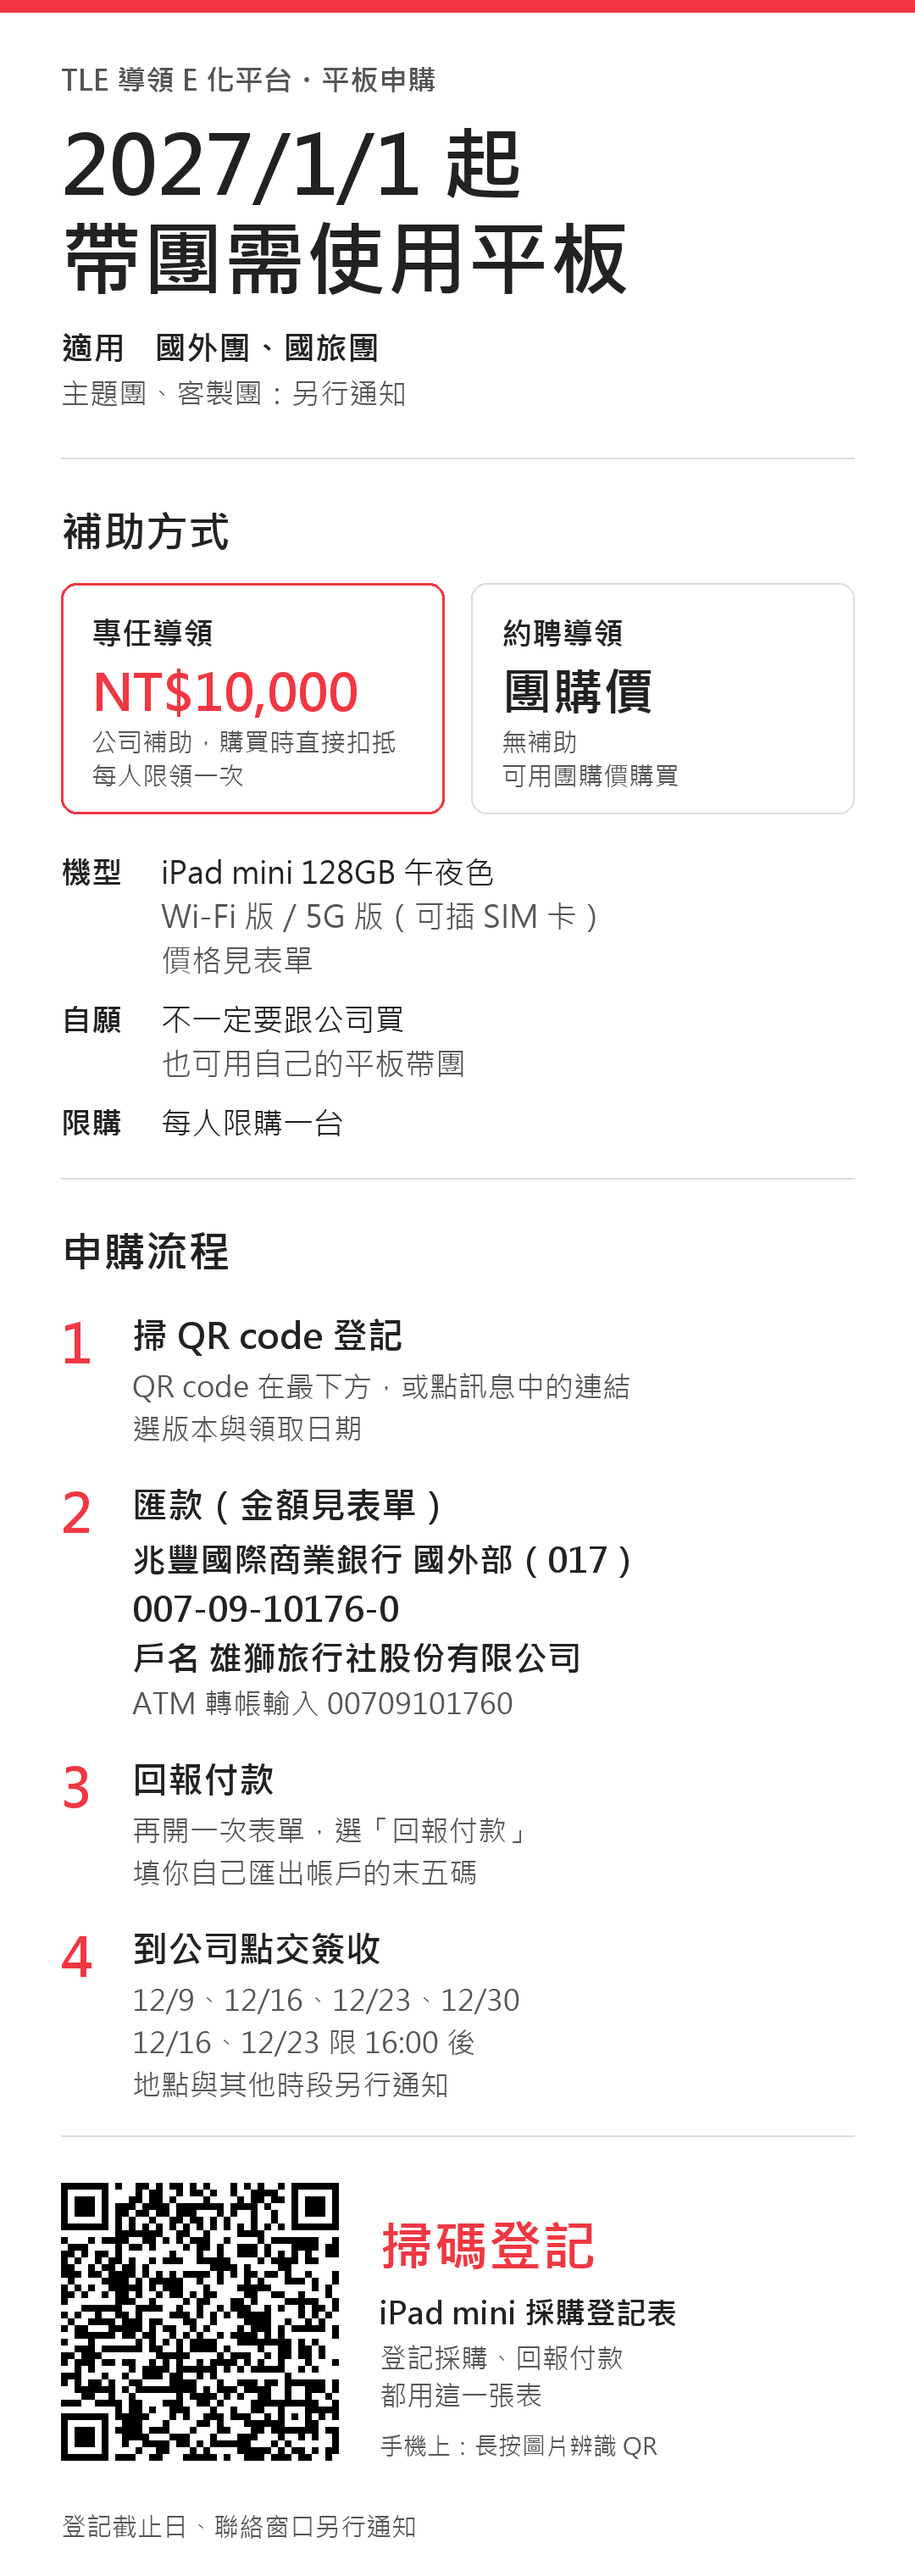
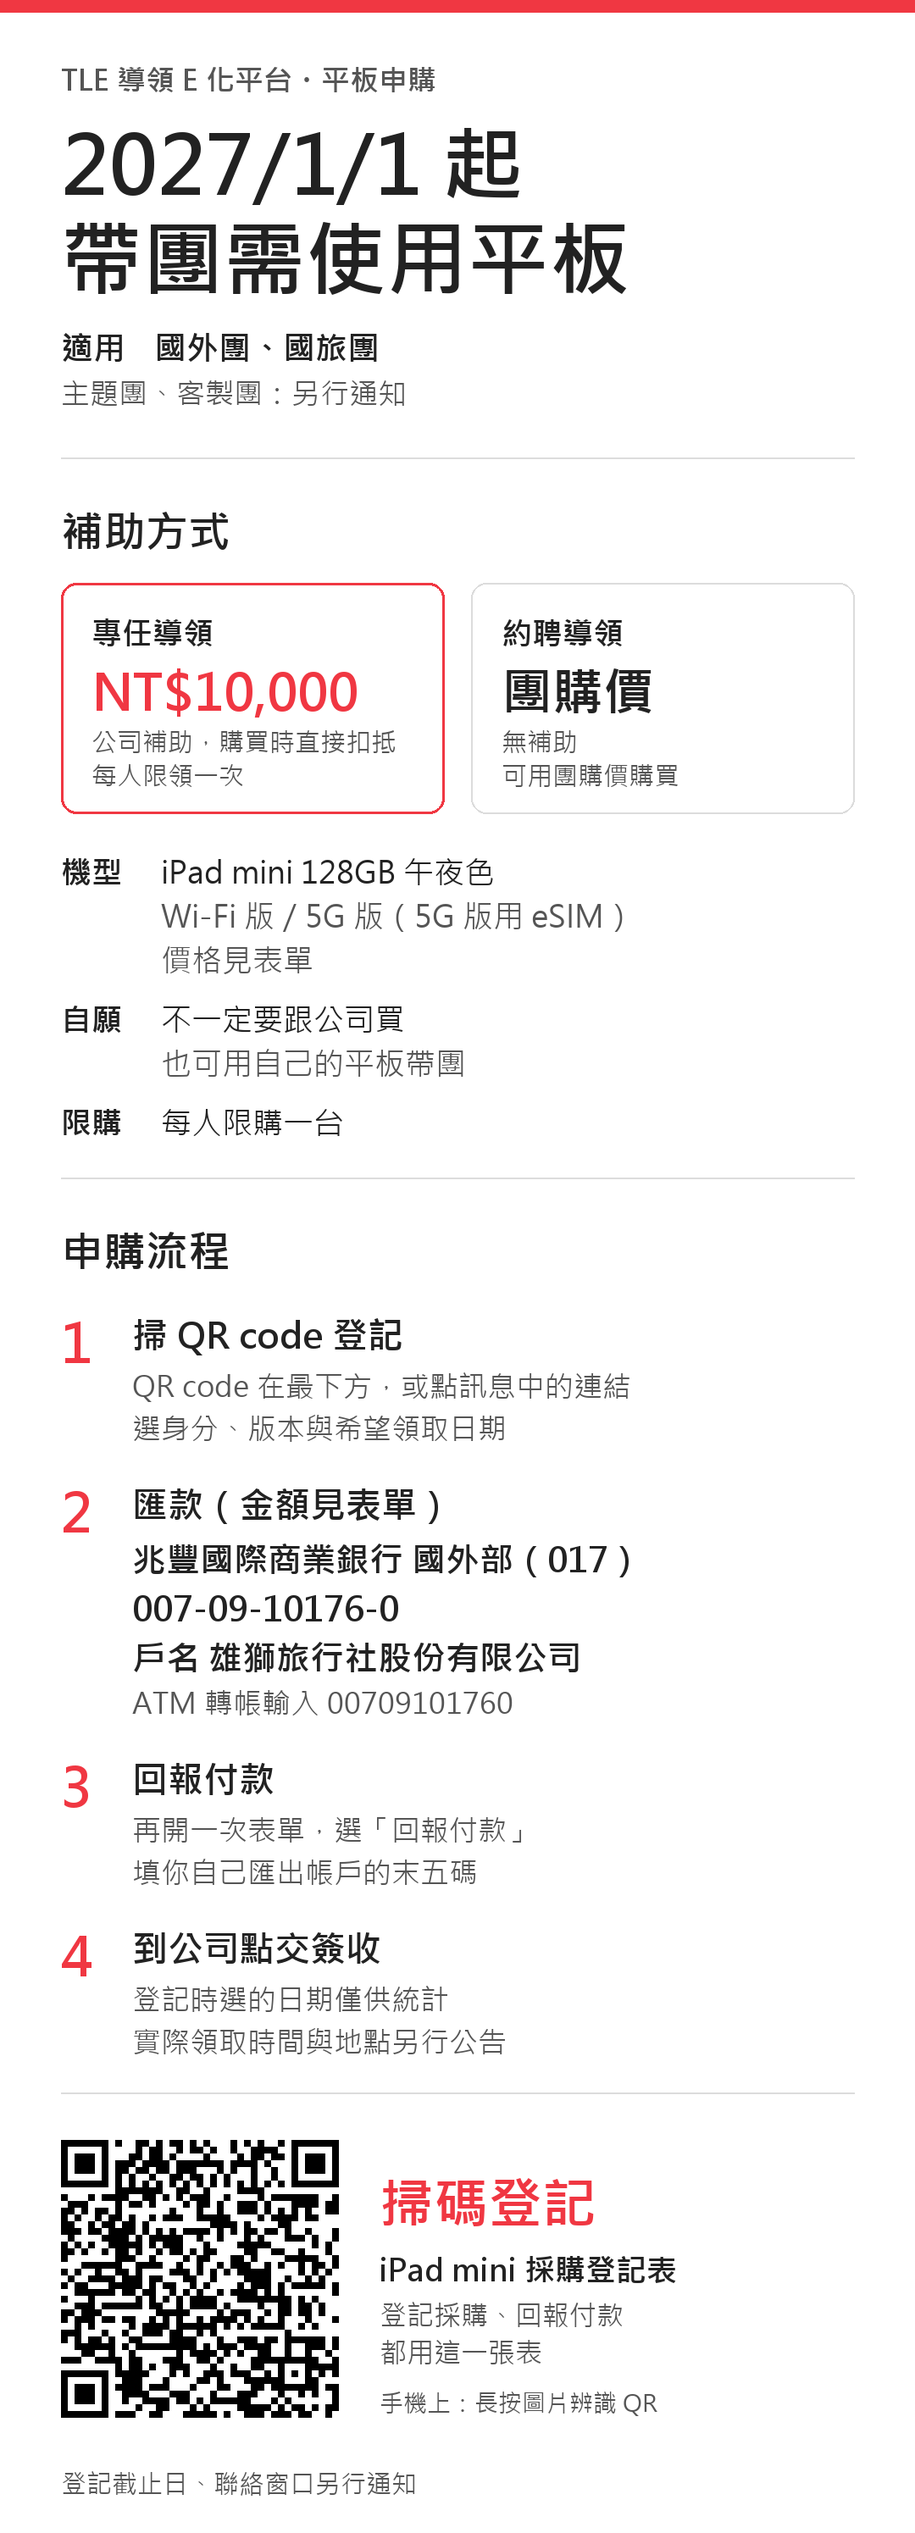
Update notice files 2026-11-10

diff --git a/index.html b/index.html
@@ -82,14 +82,14 @@ section { display: flex; flex-direction: column; gap: 14px; }
 ・採自願制，也可用自己的平板帶團；每人限購一台
 
 申購流程：
-1. 填寫登記表（選版本與領取日期）
+1. 填寫登記表（選身分、版本與希望領取日期）
 https://docs.google.com/forms/d/e/1FAIpQLScBRnBCwPRIjfkRc_nUYg1U1YS1kxVSOd4e8PlcC0XqD_pPJw/viewform
 2. 匯款（金額見登記表）
 兆豐國際商業銀行 國外部（017）
 帳號 007-09-10176-0
 戶名 雄獅旅行社股份有限公司
 3. 再開一次登記表，選「回報付款」，填自己匯出帳戶的末五碼
-4. 到公司點交簽收：12/9、12/16、12/23、12/30（12/16、12/23 限 16:00 後）
+4. 到公司點交簽收：登記時選的希望領取日期僅供統計，實際領取時間與地點另行公告
 
 設備點交驗收後如有故障，請依廠商提供的保固維修管道處理，公司不代收送修。
 詳細規定請見附件《導領人員設備申購管理辦法》。
@@ -123,8 +123,8 @@ https://docs.google.com/forms/d/e/1FAIpQLScBRnBCwPRIjfkRc_nUYg1U1YS1kxVSOd4e8Plc
           <div class="meta">PDF・最新版</div>
         </div>
         <div class="row">
-          <a class="btn" href="tablet-policy.pdf?v=202611101431" target="_blank" rel="noopener">開啟 PDF</a>
-          <a class="btn primary" href="tablet-policy.pdf?v=202611101431" download="導領人員設備申購管理辦法.pdf">下載 PDF</a>
+          <a class="btn" href="tablet-policy.pdf?v=202611101538" target="_blank" rel="noopener">開啟 PDF</a>
+          <a class="btn primary" href="tablet-policy.pdf?v=202611101538" download="導領人員設備申購管理辦法.pdf">下載 PDF</a>
         </div>
       </div>
       <div class="file">
@@ -133,12 +133,12 @@ https://docs.google.com/forms/d/e/1FAIpQLScBRnBCwPRIjfkRc_nUYg1U1YS1kxVSOd4e8Plc
           <div class="meta">PNG・手機直式，可直接轉傳 LINE</div>
         </div>
         <div class="row">
-          <a class="btn" href="leader-flyer.png?v=202611101431" target="_blank" rel="noopener">開啟圖片</a>
-          <a class="btn primary" href="leader-flyer.png?v=202611101431" download="領隊平板申購說明.png">下載圖片</a>
+          <a class="btn" href="leader-flyer.png?v=202611101538" target="_blank" rel="noopener">開啟圖片</a>
+          <a class="btn primary" href="leader-flyer.png?v=202611101538" download="領隊平板申購說明.png">下載圖片</a>
         </div>
       </div>
     </div>
-        <img class="flyer" src="leader-flyer.png?v=202611101431" alt="領隊平板申購說明圖預覽" loading="lazy">
+        <img class="flyer" src="leader-flyer.png?v=202611101538" alt="領隊平板申購說明圖預覽" loading="lazy">
   </section>
 </div>
 
